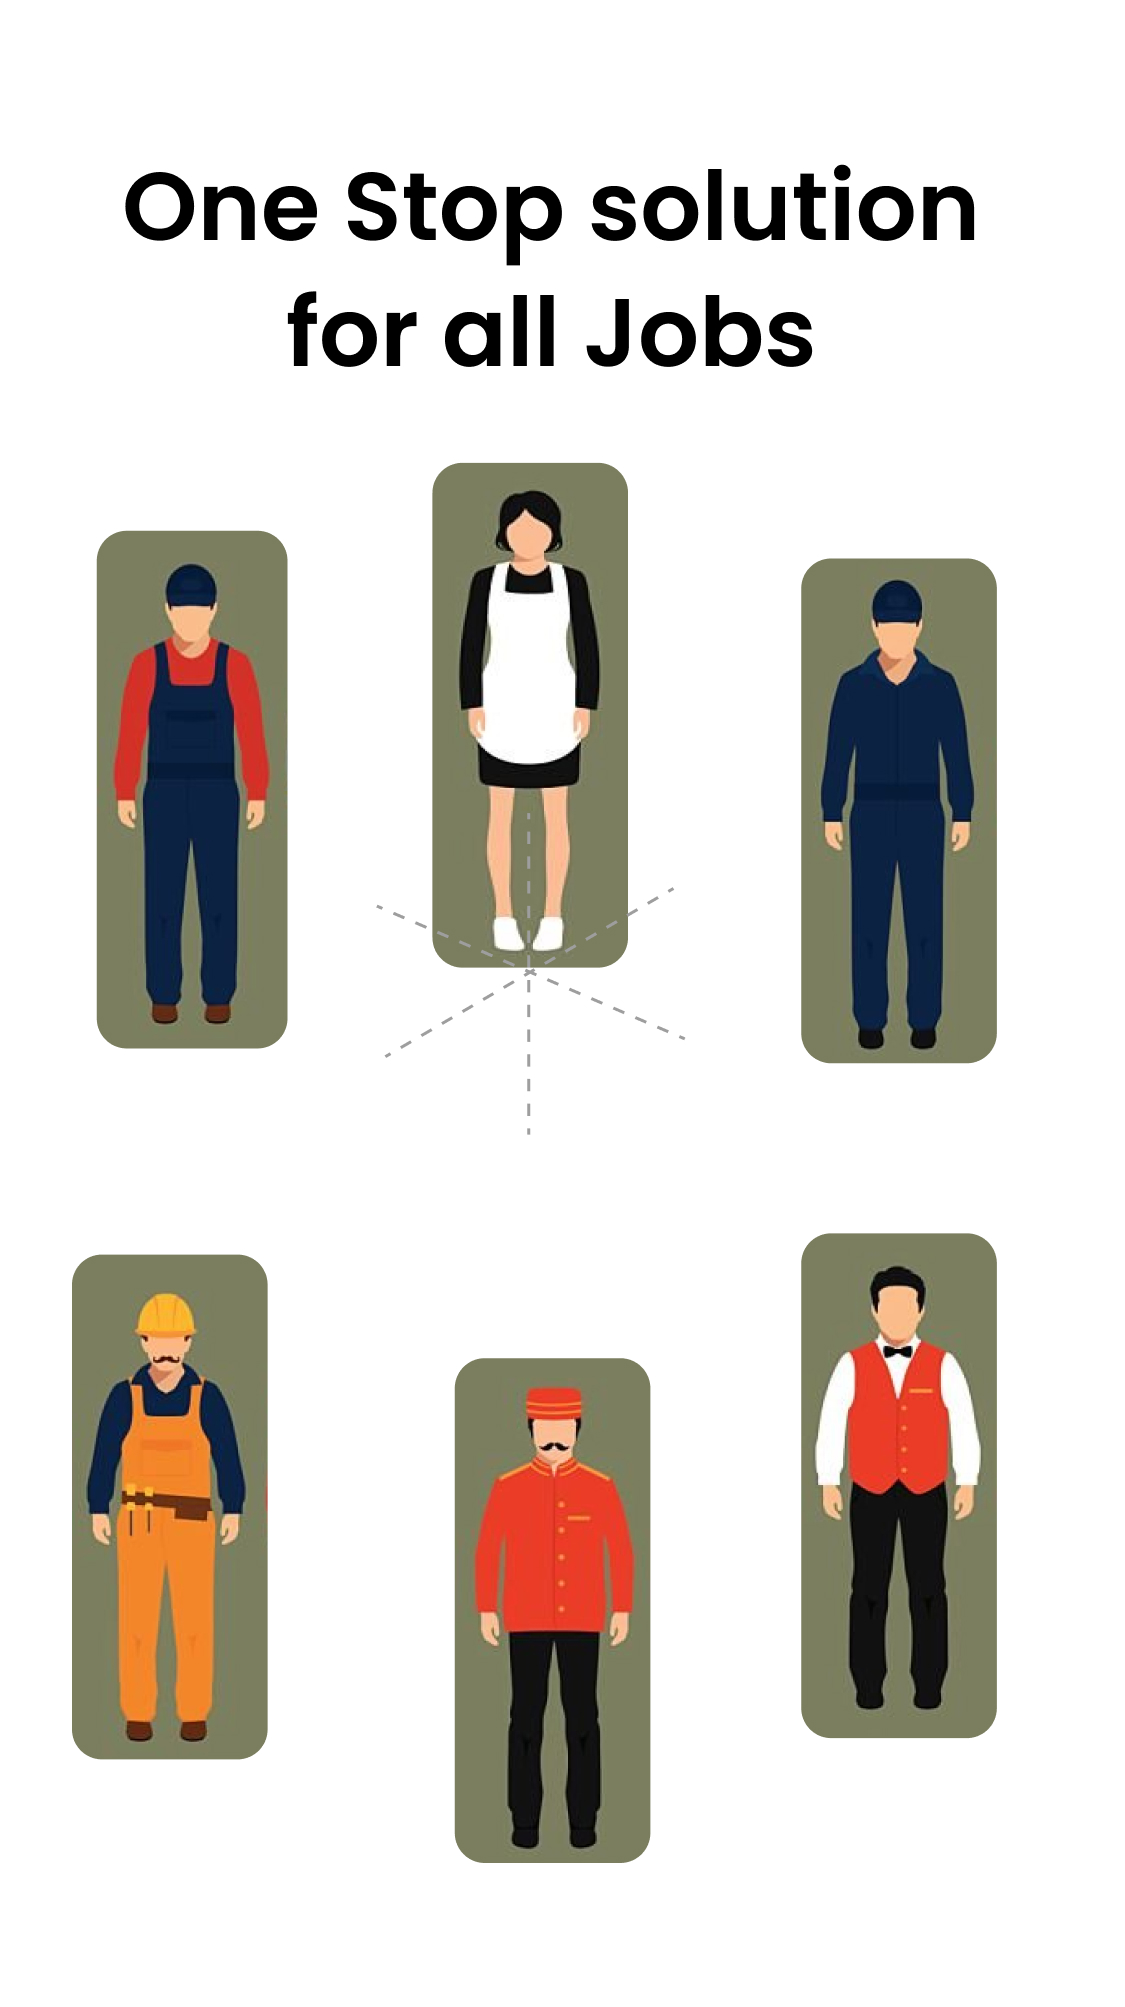
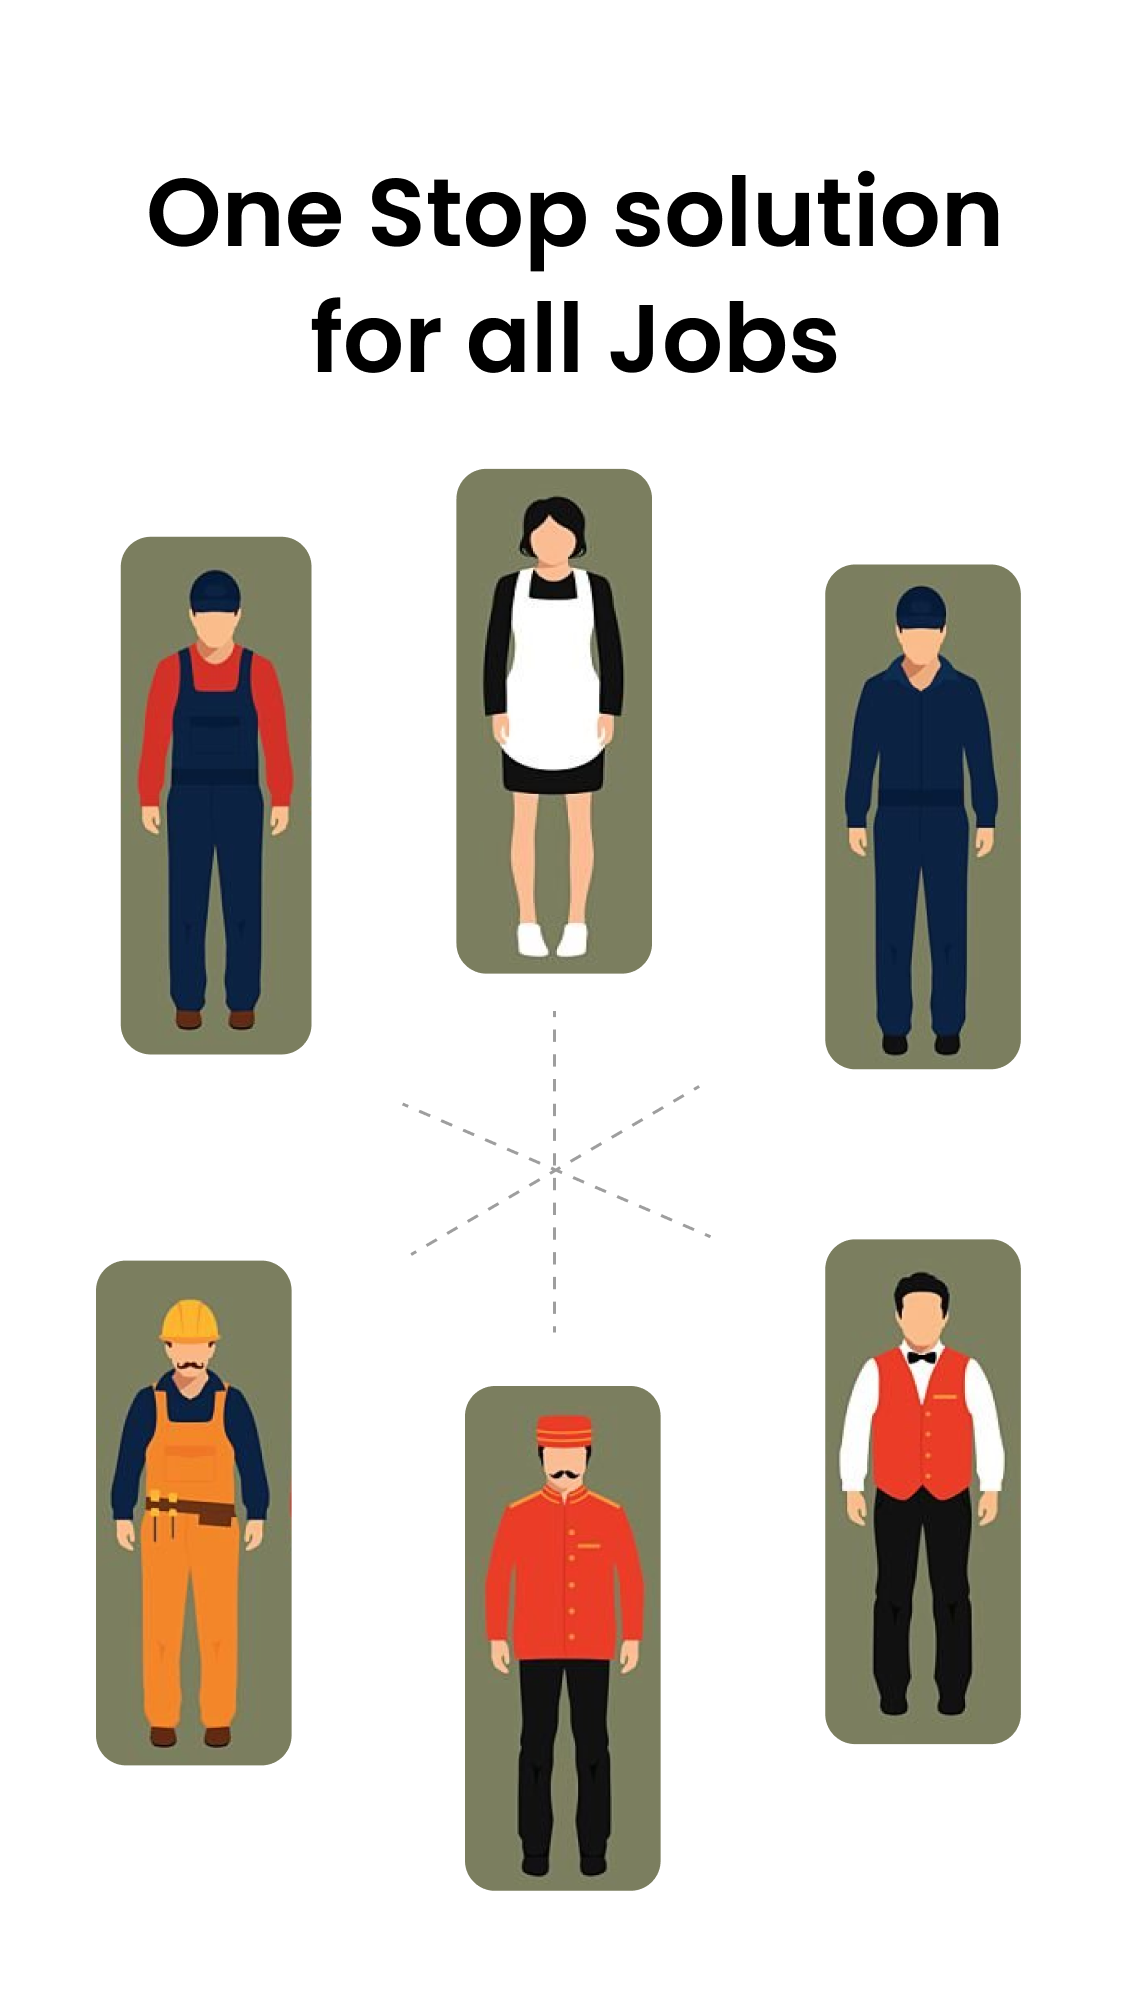
new onboarding and splash image

diff --git a/lib/screens/Onboarding/OnboardingScreen.dart b/lib/screens/Onboarding/OnboardingScreen.dart
@@ -29,6 +29,7 @@ class _OnboardingScreenState extends State<OnboardingScreen> {
     return MaterialApp(
       debugShowCheckedModeBanner: false,
       home: Scaffold(
+        backgroundColor: Colors.white,
         body: Stack(
           children: [
             PageView.builder(

diff --git a/lib/utils/go_router/app_router.dart b/lib/utils/go_router/app_router.dart
@@ -384,7 +384,7 @@ class AppRoutes {
     path: ScreenRoutes.newsPage,
     builder: (context, state) {
       return  DUIFactory().createPage(
-            'newspage',{});
+            'newspage2',{});
     },
   );
   static final GoRoute _partnerInfo = GoRoute(
